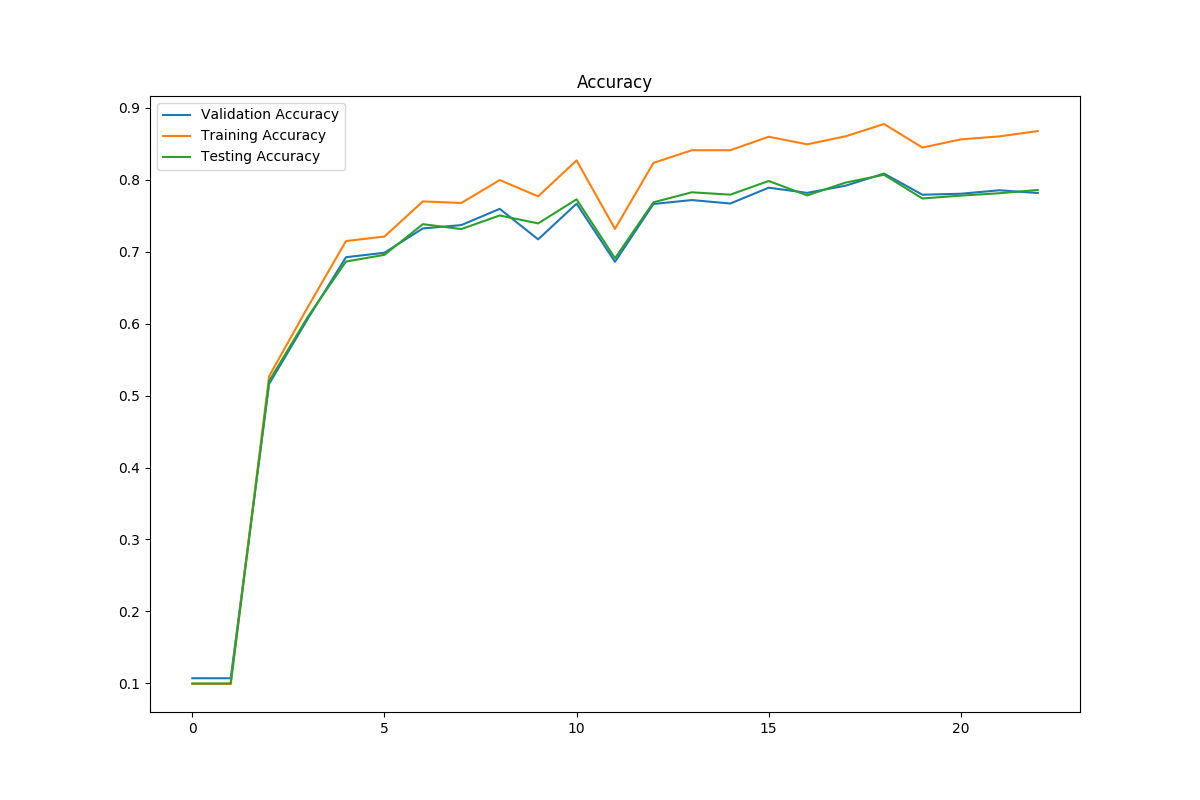
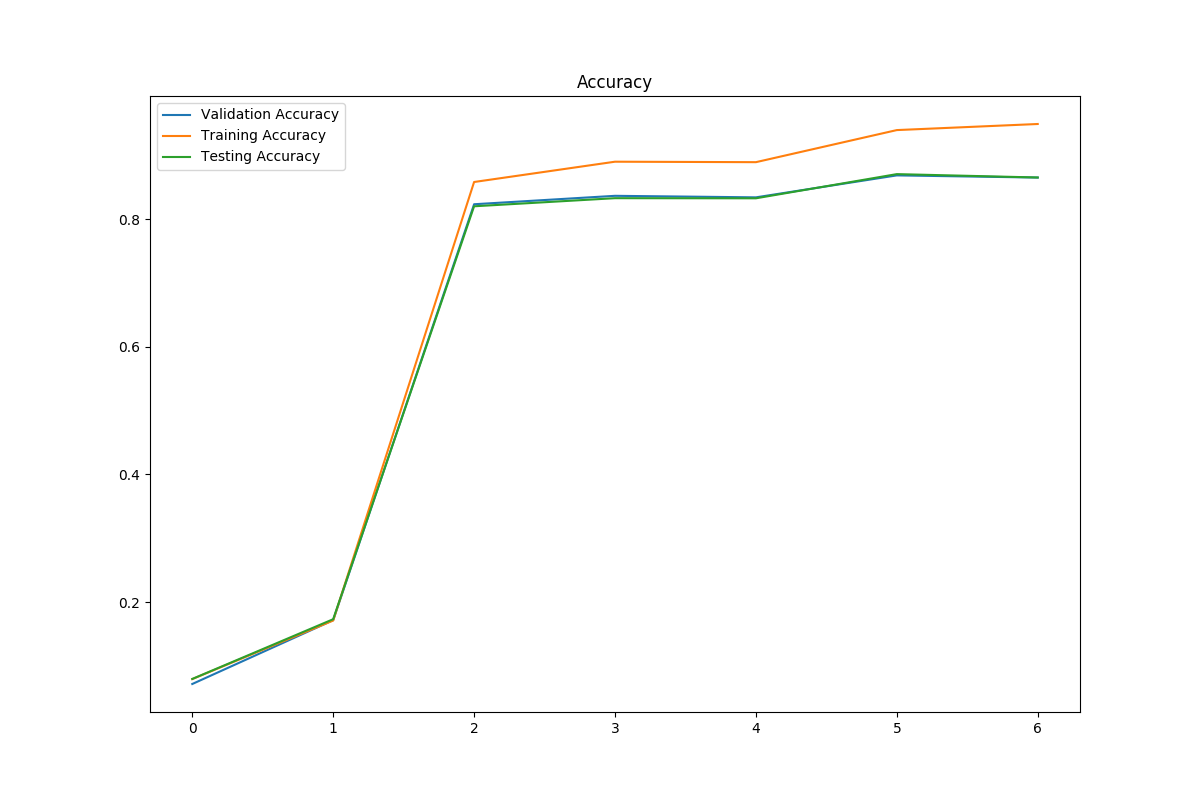
create ResNet18 network

diff --git a/assignment3/ResNet18.py b/assignment3/ResNet18.py
@@ -1,0 +1,214 @@
+import os
+import matplotlib.pyplot as plt
+import torchvision
+from torchvision.transforms.functional import to_pil_image, to_tensor, normalize
+import torch
+from torch import nn
+from dataloaders import load_cifar10, mean, std
+from utils import to_cuda, compute_loss_and_accuracy
+
+
+class ExampleModel(nn.Module):
+
+    def __init__(self,
+                 num_classes):
+        super().__init__()
+
+        self.model = torchvision.models.resnet18(pretrained=True)
+        self.model.fc = nn.Linear(512*4, num_classes)   # No need to apply softmax ,
+                                                        # as this is done in nn. CrossEntropyLoss
+        
+        for param in self.model.parameters(): # Freeze all parameters
+            param.requires_grad = False
+        for param in self.model.fc.parameters():    # Unfreeze the last fully - connected
+            param.requires_grad = True              #layer
+        for param in self.model.layer4.parameters(): # Unfreeze the last 5 convolutional
+            param.requires_grad = True               #layers
+
+    def forward(self, x):
+        x = nn.functional.interpolate(x, scale_factor=8)
+        x = self.model(x)
+        return x
+
+
+class Trainer:
+
+    def __init__(self):
+        """
+        Initialize our trainer class.
+        Set hyperparameters, architecture, tracking variables etc.
+        """
+        # Define hyperparameters
+        self.epochs = 2
+        self.batch_size = 32
+        self.learning_rate = 5e-4
+        self.early_stop_count = 4
+
+        # Architecture
+
+        # Since we are doing multi-class classification, we use the CrossEntropyLoss
+        self.loss_criterion = nn.CrossEntropyLoss()
+        # Initialize the mode
+        self.model = ExampleModel(num_classes=10)
+        # Transfer model to GPU VRAM, if possible.
+        self.model = to_cuda(self.model)
+
+        # Define our optimizer. SGD = Stochastich Gradient Descent
+        self.optimizer = torch.optim.Adam(self.model.parameters(),
+                                         self.learning_rate)
+
+        # Load our dataset
+        self.dataloader_train, self.dataloader_val, self.dataloader_test = load_cifar10(self.batch_size)
+
+        self.validation_check = len(self.dataloader_train) // 2
+
+        # Tracking variables
+        self.VALIDATION_LOSS = []
+        self.TEST_LOSS = []
+        self.TRAIN_LOSS = []
+        self.TRAIN_ACC = []
+        self.VALIDATION_ACC = []
+        self.TEST_ACC = []
+
+    def validation_epoch(self):
+        """
+            Computes the loss/accuracy for all three datasets.
+            Train, validation and test.
+        """
+        self.model.eval()
+
+        # Compute for training set
+        train_loss, train_acc = compute_loss_and_accuracy(
+            self.dataloader_train, self.model, self.loss_criterion
+        )
+        self.TRAIN_ACC.append(train_acc)
+        self.TRAIN_LOSS.append(train_loss)
+
+        # Compute for validation set
+        validation_loss, validation_acc = compute_loss_and_accuracy(
+            self.dataloader_val, self.model, self.loss_criterion
+        )
+        self.VALIDATION_ACC.append(validation_acc)
+        self.VALIDATION_LOSS.append(validation_loss)
+        print("Current validation loss:", validation_loss, " Accuracy:", validation_acc)
+        # Compute for testing set
+        test_loss, test_acc = compute_loss_and_accuracy(
+            self.dataloader_test, self.model, self.loss_criterion
+        )
+        self.TEST_ACC.append(test_acc)
+        self.TEST_LOSS.append(test_loss)
+
+        self.model.train()
+
+    def should_early_stop(self):
+        """
+        Checks if validation loss doesn't improve over early_stop_count epochs.
+        """
+        # Check if we have more than early_stop_count elements in our validation_loss list.
+        if len(self.VALIDATION_LOSS) < self.early_stop_count:
+            return False
+        # We only care about the last [early_stop_count] losses.
+        relevant_loss = self.VALIDATION_LOSS[-self.early_stop_count:]
+        previous_loss = relevant_loss[0]
+        for current_loss in relevant_loss[1:]:
+            # If the next loss decrease, early stopping criteria is not met.
+            if current_loss < previous_loss:
+                return False
+            previous_loss = current_loss
+        return True
+
+    def train(self):
+        """
+        Trains the model for [self.epochs] epochs.
+        """
+        # Track initial loss/accuracy
+        self.validation_epoch()
+        for epoch in range(self.epochs):
+            # Perform a full pass through all the training samples
+            for batch_it, (X_batch, Y_batch) in enumerate(self.dataloader_train):
+                # X_batch is the CIFAR10 images. Shape: [batch_size, 3, 32, 32]
+                # Y_batch is the CIFAR10 image label. Shape: [batch_size]
+                # Transfer images / labels to GPU VRAM, if possible
+                X_batch = to_cuda(X_batch)
+                Y_batch = to_cuda(Y_batch)
+
+                # Perform the forward pass
+                predictions = self.model(X_batch)
+                # Compute the cross entropy loss for the batch
+                loss = self.loss_criterion(predictions, Y_batch)
+
+                # Backpropagation
+                loss.backward()
+
+                # Gradient descent step
+                self.optimizer.step()
+                
+                # Reset all computed gradients to 0
+                self.optimizer.zero_grad()
+                 # Compute loss/accuracy for all three datasets.
+                if batch_it % self.validation_check == 0:
+                    self.validation_epoch()
+                    # Check early stopping criteria.
+                    if self.should_early_stop():
+                        print("Early stopping.")
+                        return
+    
+    def visualize (self):
+        image = plt.imread("horse.jpg")
+        image = to_tensor(image)
+        image = normalize(image.data, mean, std)
+        image = image.view(1, *image.shape)
+        image = nn.functional.interpolate(image, size=(256,256))
+        image = to_cuda(image)
+
+        # print(self.model.model)        
+        # print(self.model.model.children())
+        first_layer_out = self.model.model.conv1(image)
+        to_visualize = first_layer_out.view(first_layer_out.shape[1], 1, *first_layer_out.shape[2:])
+        torchvision.utils.save_image(to_visualize, "filters_first_layer.png")
+
+        for name, child in self.model.model.named_children():
+            if name not in ['avgpool', 'fc']:
+                print("Passing image through layer ", name)
+                image = child(image)
+
+        to_visualize = image.view(image.shape[1], 1, *image.shape[2:])
+        torchvision.utils.save_image(to_visualize, "filters_last_layer.png")
+        
+
+        return
+
+
+if __name__ == "__main__":
+    trainer = Trainer()
+    trainer.train()
+
+    trainer.visualize()
+
+    os.makedirs("plots", exist_ok=True)
+    # Save plots and show them
+    plt.figure(figsize=(12, 8))
+    plt.title("Cross Entropy Loss")
+    plt.plot(trainer.VALIDATION_LOSS, label="Validation loss")
+    plt.plot(trainer.TRAIN_LOSS, label="Training loss")
+    plt.plot(trainer.TEST_LOSS, label="Testing Loss")
+    plt.legend()
+    plt.savefig(os.path.join("plots", "final_loss.png"))
+    plt.show()
+
+    plt.figure(figsize=(12, 8))
+    plt.title("Accuracy")
+    plt.plot(trainer.VALIDATION_ACC, label="Validation Accuracy")
+    plt.plot(trainer.TRAIN_ACC, label="Training Accuracy")
+    plt.plot(trainer.TEST_ACC, label="Testing Accuracy")
+    plt.legend()
+    plt.savefig(os.path.join("plots", "final_accuracy.png"))
+    plt.show()
+
+    print("Final test accuracy:", trainer.TEST_ACC[-trainer.early_stop_count])
+    print("Final validation accuracy:", trainer.VALIDATION_ACC[-trainer.early_stop_count])
+    print("Final training accuracy:", trainer.TRAIN_ACC[-trainer.early_stop_count])
+
+    print("Final test loss:", trainer.TEST_LOSS[-trainer.early_stop_count])
+    print("Final validation loss:", trainer.VALIDATION_LOSS[-trainer.early_stop_count])
+    print("Final training loss:", trainer.TRAIN_LOSS[-trainer.early_stop_count])
